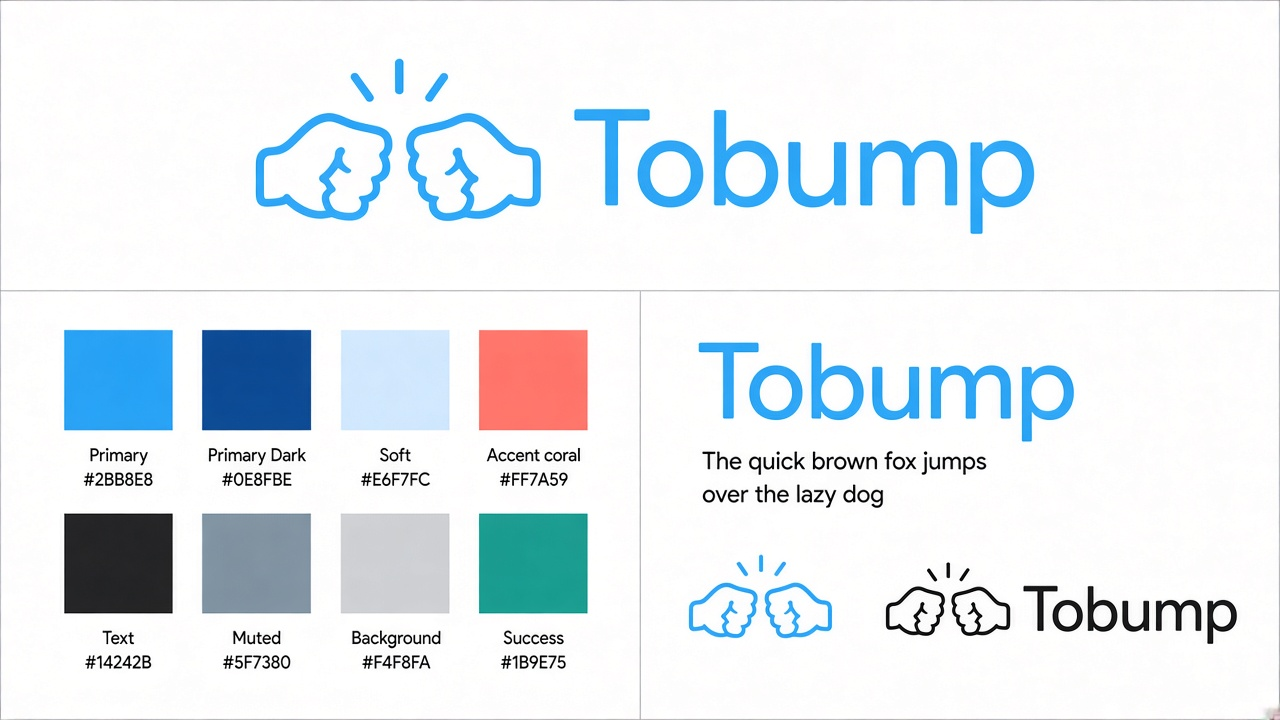
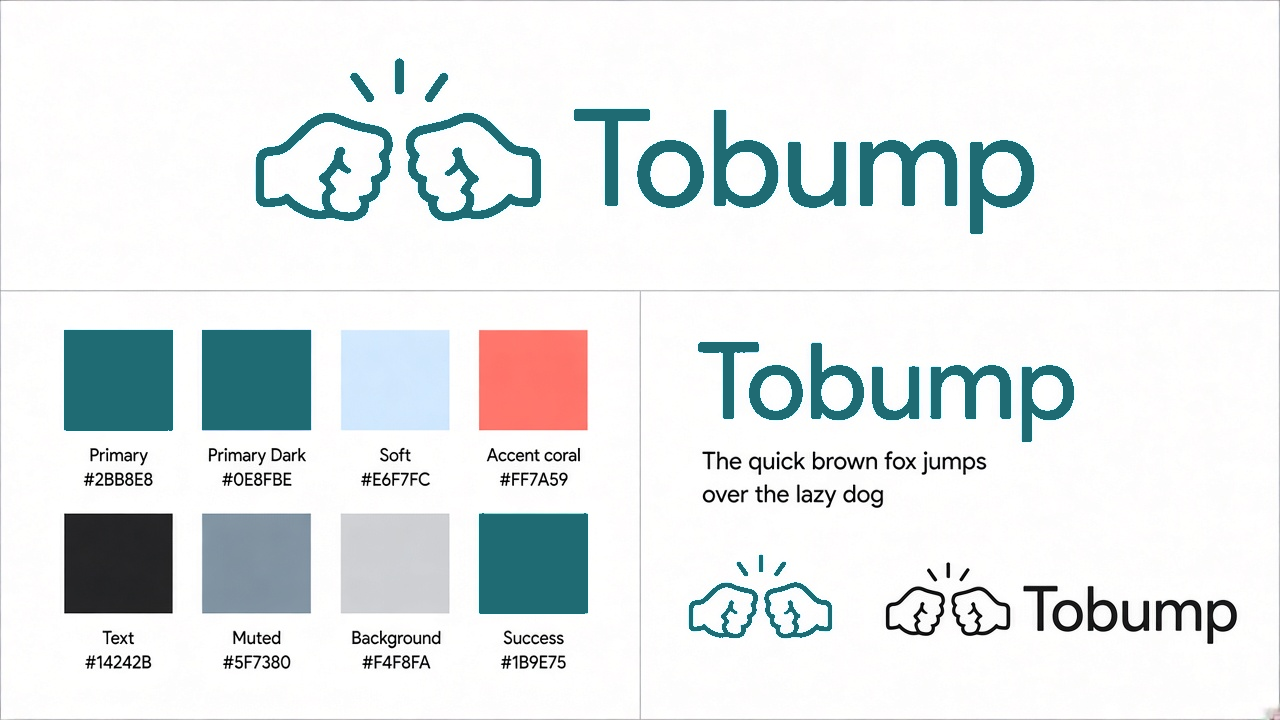
Switch the brand palette to sand and deep teal so the UI is less white and less glaring.

diff --git a/constants/theme.ts b/constants/theme.ts
@@ -1,25 +1,25 @@
 export const theme = {
   colors: {
-    // Tobump brand — cyan primary (from CGP)
-    primary: '#2BB8E8',
-    primaryDark: '#0E8FBE',
-    primarySoft: '#E6F7FC',
-    primaryMuted: '#B8E8F6',
-    accent: '#FF7A59',
-    background: '#F4F8FA',
-    surface: '#FFFFFF',
-    surfaceElevated: '#FFFFFF',
-    text: '#14242B',
-    textMuted: '#5F7380',
-    border: '#D5E3EA',
-    borderStrong: '#B0C5D0',
+    // ToBump CGP v2 — sand + deep teal
+    primary: '#1F6B73',
+    primaryDark: '#154F55',
+    primarySoft: '#D3E0DE',
+    primaryMuted: '#B7CBC9',
+    accent: '#C96A4A',
+    background: '#E4DCCE',
+    surface: '#EFE8DB',
+    surfaceElevated: '#F6F0E4',
+    text: '#1A1F1E',
+    textMuted: '#6B6560',
+    border: '#D4CBBA',
+    borderStrong: '#C4B8A4',
     danger: '#C0392B',
-    dangerSoft: '#FCE8E6',
-    success: '#1B9E75',
-    warning: '#D97706',
-    warningSoft: '#FEF3C7',
-    infoSoft: '#E6F7FC',
-    info: '#0E8FBE',
+    dangerSoft: '#F3E4DE',
+    success: '#3E8A68',
+    warning: '#C47A1A',
+    warningSoft: '#F0E4C8',
+    infoSoft: '#D3E0DE',
+    info: '#154F55',
   },
   radius: {
     sm: 10,
@@ -35,7 +35,7 @@ export const theme = {
   },
   shadow: {
     card: {
-      shadowColor: '#0E8FBE',
+      shadowColor: '#154F55',
       shadowOpacity: 0.08,
       shadowRadius: 12,
       shadowOffset: { width: 0, height: 4 },

diff --git a/app/(tabs)/chat/[activityId].tsx b/app/(tabs)/chat/[activityId].tsx
@@ -115,7 +115,7 @@ export default function ChatScreen() {
             <View style={[styles.bubble, mine ? styles.mine : styles.theirs]}>
               {!mine ? <Text style={styles.author}>{displayName(item.profiles)}</Text> : null}
               <Text style={[styles.msg, mine && { color: '#fff' }]}>{item.message}</Text>
-              <Text style={[styles.time, mine && { color: '#D1FAE5' }]}>
+              <Text style={[styles.time, mine && { color: theme.colors.primaryMuted }]}>
                 {format(new Date(item.created_at), 'HH:mm')}
               </Text>
             </View>

diff --git a/app/(tabs)/index.tsx b/app/(tabs)/index.tsx
@@ -285,7 +285,7 @@ const styles = StyleSheet.create({
   },
   cardMine: {
     borderColor: theme.colors.primaryMuted,
-    backgroundColor: '#F3FAF7',
+    backgroundColor: theme.colors.primarySoft,
   },
   cardBody: {
     flex: 1,
@@ -349,6 +349,6 @@ const styles = StyleSheet.create({
     paddingHorizontal: 10,
     borderLeftWidth: StyleSheet.hairlineWidth,
     borderLeftColor: theme.colors.border,
-    backgroundColor: '#FBFCFB',
+    backgroundColor: theme.colors.surfaceElevated,
   },
 });

diff --git a/constants/Colors.ts b/constants/Colors.ts
@@ -1,12 +1,12 @@
-const tintColorLight = '#2f95dc';
+const tintColorLight = '#1F6B73';
 const tintColorDark = '#fff';
 
 export default {
   light: {
-    text: '#000',
-    background: '#fff',
+    text: '#1A1F1E',
+    background: '#E4DCCE',
     tint: tintColorLight,
-    tabIconDefault: '#ccc',
+    tabIconDefault: '#6B6560',
     tabIconSelected: tintColorLight,
   },
   dark: {

diff --git a/app/(tabs)/planner.tsx b/app/(tabs)/planner.tsx
@@ -230,6 +230,6 @@ const styles = StyleSheet.create({
     paddingHorizontal: 10,
     borderLeftWidth: StyleSheet.hairlineWidth,
     borderLeftColor: theme.colors.border,
-    backgroundColor: '#FBFCFB',
+    backgroundColor: theme.colors.surfaceElevated,
   },
 });

diff --git a/app/+html.tsx b/app/+html.tsx
@@ -30,7 +30,7 @@ export default function Root({ children }: { children: ReactNode }) {
 
 const responsiveBackground = `
 body {
-  background-color: #fff;
+  background-color: #E4DCCE;
 }
 @media (prefers-color-scheme: dark) {
   body {

diff --git a/app/+not-found.tsx b/app/+not-found.tsx
@@ -35,6 +35,6 @@ const styles = StyleSheet.create({
   },
   linkText: {
     fontSize: 14,
-    color: '#2e78b7',
+    color: '#1F6B73',
   },
 });

diff --git a/assets/brand/README.md b/assets/brand/README.md
@@ -1,7 +1,9 @@
-# ToBump — celostna grafična podoba (v1)
+# ToBump — celostna grafična podoba (v2)
 
 ## Ideja
 ToBump = povezovanje prijateljev okoli aktivnosti. Fist-bump = dogovor, energija, skupaj.
+
+UI je **pesek**, akcija je **globok teal**. Teal je samo na gumbih, aktivnih chipih, ikonah in znamki — ne kot ozadje celotnega zaslona.
 
 ## Logo
 | Različica | Datoteka | Uporaba |
@@ -15,19 +17,22 @@ ToBump = povezovanje prijateljev okoli aktivnosti. Fist-bump = dogovor, energija
 ## Barve
 | Vloga | Hex | Uporaba |
 |-------|-----|---------|
-| Primary | `#2BB8E8` | gumbi, aktivni elementi, znamka |
-| Primary dark | `#0E8FBE` | pressed / heading accent |
-| Primary soft | `#E6F7FC` | ozadja chipov, soft panels |
-| Accent | `#FF7A59` | CTA poudarki, opozorila pozitivne energije |
-| Text | `#14242B` | glavno besedilo |
-| Muted | `#5F7380` | sekundarno |
-| Background | `#F4F8FA` | app ozadje |
-| Surface | `#FFFFFF` | kartice |
-| Success | `#1B9E75` | uspeh / join |
+| Primary | `#1F6B73` | gumbi, aktivni chipi, znamka |
+| Primary dark | `#154F55` | pressed / heading accent |
+| Primary soft | `#D3E0DE` | izbrano stanje, mehki paneli |
+| Primary muted | `#B7CBC9` | robovi secondary gumbov |
+| Accent | `#C96A4A` | redki CTA poudarki |
+| Text | `#1A1F1E` | glavno besedilo |
+| Muted | `#6B6560` | sekundarno |
+| Background | `#E4DCCE` | app ozadje |
+| Surface | `#EFE8DB` | kartice |
+| Surface elevated | `#F6F0E4` | header, modal |
+| Border | `#D4CBBA` | ločnice |
+| Success | `#3E8A68` | uspeh / join |
 
 ## Tipografija
 - UI: obstoječi sistemni / Expo fonti (zaenkrat)
 - Wordmark občutek: zaobljen geometric sans, medium weight, `Tobump` (T velika)
 
 ## Ton
-Prijateljski, aktiven, jasen — brez “corporate cold”, brez preveč igračkastih emoji v UI.
+Prijateljski, aktiven, umirjen za dolgo branje — papir, ne belina; teal kot poudarek, ne poplava.
